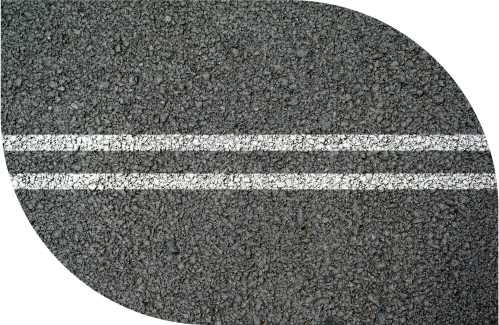
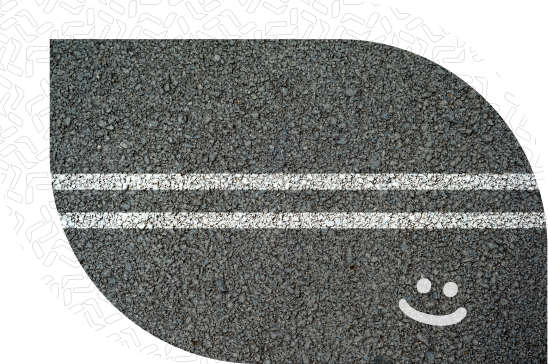
Update

diff --git a/src/scss/banner.scss b/src/scss/banner.scss
@@ -13,52 +13,22 @@
     height: 100%;
     overflow: hidden;
     position: relative;
-
-    .animation__wrap {
-      position: relative;
-      top: 30%;
-      right: -19%;
-      transform: rotate(299deg);
-
-      img {
-        figure {
-          animation: MoveUpDown 2s linear infinite;
-          text-align: center;
-        }
-
-        &:nth-child(1) {
-          top: 0;
-          right: 100px;
-          max-width: 36px;
-          position: absolute;
-        }
-
-        &:nth-child(2) {
-          top: 120px;
-          right: 10%;
-          max-width: 20px;
-          position: absolute;
-        }
-
-        &:nth-child(3) {
-          top: 0;
-          left: 300px;
-          max-width: 15px;
-          position: absolute;
-        }
-      }
-    }
+    background: #00afaa;
+    padding-top: 115px;
+    height: 100vh;
 
     &::before {
-      // content: "";
-      // background: url(../../public/images/Background/.png) no-repeat center
-      // center;
+      content: "";
+
       width: 100%;
       height: 100%;
       position: absolute;
       top: 0;
-      left: 0;
-      background-size: cover;
+      right: 0;
+      background: url(../assests/Pattern.png);
+      background-size: 200px;
+      background-repeat: no-repeat;
+      background-position: center right;
       z-index: -2;
     }
 
@@ -68,80 +38,34 @@
       height: 100%;
     }
 
-    .conatiner-wrapper {
+    .container__ {
       width: 100%;
 
-      .container {
-        position: relative;
-        max-width: 1200px;
-        margin: auto;
-        height: 100vh;
-        display: flex;
-        flex-direction: column;
-        padding: 170px 15px 80px;
-        z-index: 6;
-        gap: 50px;
-        align-items: start;
-        justify-content: center;
+      max-width: 1080px;
+      .grid {
+        display: grid;
+        grid-template-columns: 1fr 1fr;
+        align-items: center;
+        .start {
+          position: relative;
 
-        @include md {
-          padding: 160px 15px 80px;
-          gap: 35px;
-        }
-
-        .heading {
-          text-align: start;
-          max-width: 1100px;
-
-          h1 {
-            font-size: clamp(100%, 14vw, 5.2rem);
-            color: white;
-            text-transform: none;
-
-            @include md {
-              line-height: 1em;
-            }
+          img {
+            width: 100%;
           }
         }
-        .banner-btns {
+        .end {
           display: flex;
-          align-items: center;
           justify-content: center;
-          gap: 30px;
-          @include md {
-            flex-direction: column;
-            gap: 20px;
-          }
-          .btn {
-            padding: 15px 20px;
-            background: white;
-            border-radius: 30px;
-            display: flex;
-            flex-direction: column;
-            align-items: center;
-            justify-content: center;
-
-            @include smobile {
-              margin: 0px;
-            }
-
-            a {
-              color: #006281;
-              font-weight: 600;
-              font-size: 26px;
-              font {
-                color: #006281;
-              }
-              @include lg {
-                font-size: 20px;
-              }
-
-              // @include mobile{
-              //   font-size: 18px;
-              // }
-              // @include smobile{
-              //   font-size: 16px;
-              // }
+          > h1 {
+            text-align: end;
+            line-height: 1.4;
+            font-weight: 300;
+            font-size: 3rem;
+            max-width: 390px;
+            > h1 {
+              font-weight: 700;
+              display: inline;
+              font-size: 3rem;
             }
           }
         }

diff --git a/src/scss/navigation.scss b/src/scss/navigation.scss
@@ -35,16 +35,18 @@ header {
       }
     }
     .container {
-      max-width: 1200px;
+      max-width: 1300px;
       margin: 0 auto;
-      padding: 12px 15px;
+      padding: 31px 35px;
       background: #f2f2f2;
+      border-bottom-right-radius: 75px;
+      border-bottom-left-radius: 75px;
       .nav__grid {
         align-items: center;
         position: relative;
         display: grid;
-        grid-template-columns: 1fr 1fr 3fr 1fr;
-
+        grid-template-columns: 1fr 1.5fr 3fr 1fr;
+        gap: 10px;
         @include md {
           display: flex;
           align-items: center;
@@ -69,10 +71,40 @@ header {
             }
           }
         }
-
+        .user {
+          display: flex;
+          justify-content: space-between;
+          gap: 10px;
+          align-items: center;
+          span {
+            color: #2f2b4399;
+            font-weight: 600;
+          }
+        }
+        .translate {
+          display: flex;
+          align-items: center;
+          justify-content: center;
+          gap: 10px;
+          .second {
+            background: rgba(0, 175, 170, 1);
+            box-shadow: 0px 1px 3px rgba(47, 43, 67, 0.1),
+              inset 0px -1px 0px rgba(47, 43, 67, 0.1);
+            border-radius: 8px;
+            padding: 8px 12px;
+          }
+          .first {
+            background: #fff;
+            box-shadow: 0px 1px 3px rgba(47, 43, 67, 0.1),
+              inset 0px -1px 0px rgba(47, 43, 67, 0.1);
+            border-radius: 8px;
+            padding: 8px 12px;
+            color: black;
+          }
+        }
         nav {
           display: flex;
-          justify-content: end;
+          justify-content: center;
           align-items: center;
 
           .nav-wrap {
@@ -80,8 +112,7 @@ header {
               display: flex;
               justify-content: center;
               list-style: none;
-              gap: 40px;
-
+              gap: 12px;
               transform: translateX(0%);
 
               @include md {

diff --git a/src/components/Banner.js b/src/components/Banner.js
@@ -1,45 +1,24 @@
 import React from "react";
 import "../scss/banner.scss";
 import { Link } from "react-router-dom";
-const Banner = ({ bg, text, isCenter, bc }) => {
+import first from "../assests/Photo.png"
+const Banner = () => {
   return (
     <>
       <div id="banner-wrapper">
         <section
           id="banner"
-          style={{
-            backgroundImage: `url(${bg})`,
-            backgroundSize: "cover",
-          }}
+
         >
-          <div className="conatiner-wrapper" style={{ background: bc }}>
-            <div
-              className="container"
-              style={
-                isCenter
-                  ? {
-                      textAlign: "center",
-                      justifyContent: "center",
-                      alignItems: "center",
-                    }
-                  : {}
-              }
-            >
-              <div className="heading" data-aos="fade-up">
-                <h1
-                  style={isCenter ? { textAlign: "center" } : {}}
-                  className={bc === "rgb(255 255 255 / 62%)" ? "grey" : null}
-                >
-                  {text}
-                </h1>
+          <div className="container__">
+            <div className="grid">
+              <div className="start">
+                <img src={first} alt="" />
               </div>
-              <div className="banner-btns" data-aos="fade-up">
-                <div className="btn">
-                  <Link to={"/Contact"}>Obtenir votre devis</Link>
-                </div>
-                <div className="btn">
-                  <a href="https://www.je-roule-en-electrique.fr" target="blank_"> Je passe à l'électrique</a>
-                </div>
+              <div className="end">
+                <h1>
+                  <h1>نصنع من</h1> رحلتكم وترحالكم شيئأ ممتعاً
+                </h1>
               </div>
             </div>
           </div>

diff --git a/src/scss/reset.css b/src/scss/reset.css
@@ -112,15 +112,7 @@ h3,
 h4,
 h5,
 h6 {
-  font-family: "Bakbak One", cursive;
-  font-family: "Barlow-bold";
-  font-family: "Quarry Bones";
-  font-family: "RocGrotesk3";
-  font-family: "BerkshireSwash";
-  text-shadow: none !important;
-  font-family: "Raleway", Sans-serif;
-  font-family: "Syne", sans-serif;
-  font-family: "Raleway", Sans-serif;
+  font-family: "Cairo", sans-serif;
   /* color: #f7ea66 !important; */
   /* background: #f7ea66 !important; */
 }
